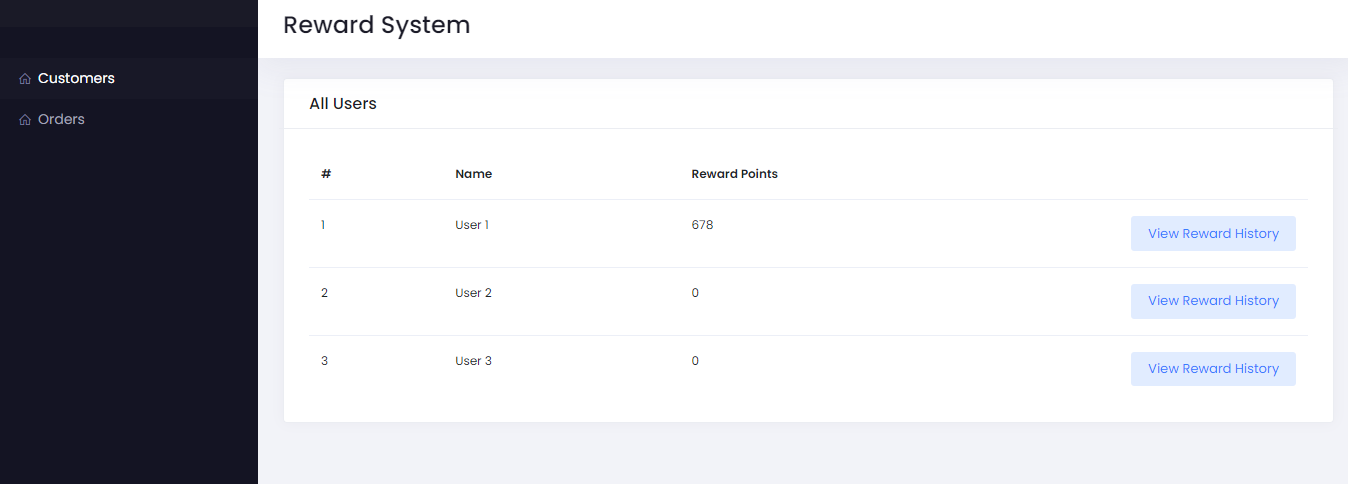
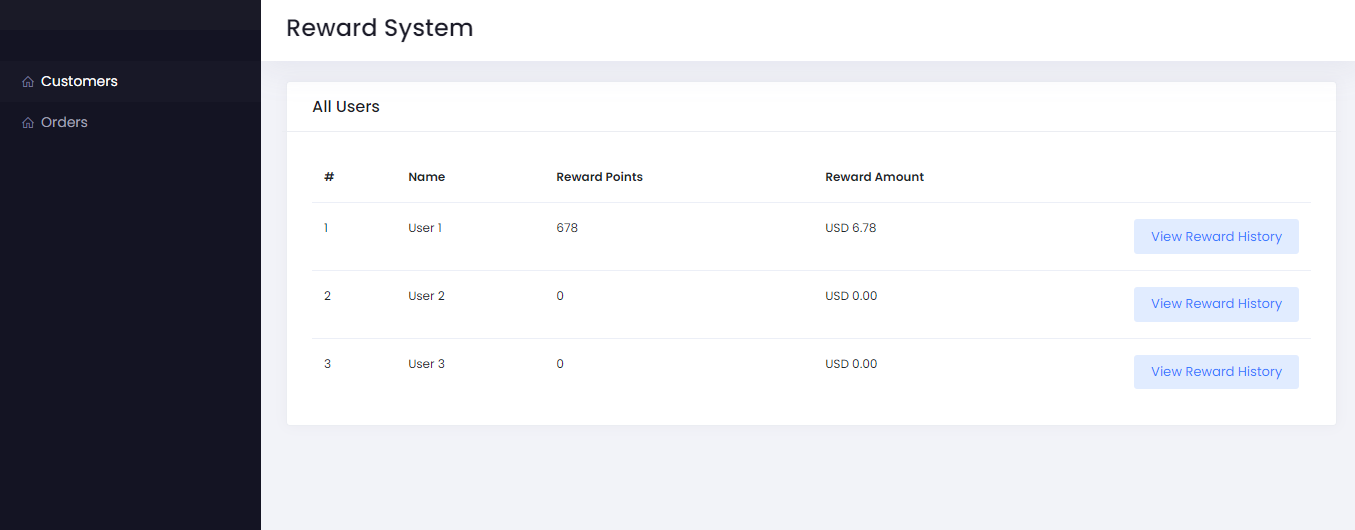
read me updated

diff --git a/app/Http/Controllers/OrderController.php b/app/Http/Controllers/OrderController.php
@@ -44,25 +44,6 @@ class OrderController extends Controller
         $order->currency = $currency->code;
         $order->currency_value = $currency->exchange_rate;
 
-        //check if customer want to use the rewards point
-        if($request->use_points){
-            //convert sales amount to USD
-            $amount_to_redeem = $order->sales_amount * $order->currency_value;
-
-            //1 point = USD 0.01
-            //1 USD = 100 points
-            $points_to_redeem = $amount_to_redeem * 100;
-
-            //check if reward points can be used
-            if($user->reward_points < $points_to_redeem){
-                flash('Enough points not available')->error();
-                return redirect()->back();
-            }
-            
-            $user->reward_points -= $points_to_redeem;
-            $user->save();
-        }
-
         $order->save();
 
         flash('Order has been added successfully')->success();
@@ -72,6 +53,7 @@ class OrderController extends Controller
 
     public function markAsComplete($order_id){
         $order = Order::findOrFail($order_id);
+        $user = User::findOrFail($order->user_id);
 
         if($order->status != "Pending")
         {
@@ -79,18 +61,16 @@ class OrderController extends Controller
             return redirect()->back();
         }
 
-        $user = User::findOrFail($order->user_id);
+        $reward_amount = $order->calculateRewardPoints();
 
         //Create new reward record
         $reward = new Reward();
         $reward->order_id = $order->id;
-        $reward->user_id = $order->user_id;
         $reward->expiry_date = Carbon::now()->addYears(1)->format('Y-m-d');
-        $reward_amount = $order->calculateRewardPoints();
-
         $reward->reward_points = $reward_amount;
         $reward->save();
 
+        //credit reward points to the user
         $user->reward_points += $reward_amount;
         $user->save();
 

diff --git a/resources/views/users/index.blade.php b/resources/views/users/index.blade.php
@@ -17,6 +17,7 @@
                         <th>#</th>
                         <th data-breakpoints="md">Name</th>
                         <th data-breakpoints="md">Reward Points</th>
+                        <th data-breakpoints="md">Reward Amount</th>
                         
                         <th class="text-right" width="20%"></th>
                     </tr>
@@ -32,6 +33,10 @@
                         </td>
                         <td>
                             {{ $user->reward_points }}
+                        </td>
+
+                        <td>
+                            USD {{ $user->reward_amount }}
                         </td>
                         
                         <td class="text-right">

diff --git a/app/Models/User.php b/app/Models/User.php
@@ -56,10 +56,16 @@ class User extends Authenticatable
     /**
      * Get all of the rewards for the User
      *
-     * @return \Illuminate\Database\Eloquent\Relations\HasMany
+     * @return \Illuminate\Database\Eloquent\Relations\HasManyThrough
      */
     public function rewards()
     {
-        return $this->hasMany(Reward::class);
+        return $this->hasManyThrough(Reward::class, Order::class);
+    }
+
+    public function getRewardAmountAttribute()
+    {   
+        //convert reward_points to reward amount in usd
+        return number_format($this->reward_points * 0.01, 2);
     }
 }

diff --git a/app/Console/Commands/CheckRewardExpiry.php b/app/Console/Commands/CheckRewardExpiry.php
@@ -50,8 +50,7 @@ class CheckRewardExpiry extends Command
                 ->where('is_expired', 0)
                 ->sum('reward_points');
             
-            //update user reward points
-            //condition check to balance out used reward points
+            //if user.reward_points <= unexpired_points, then no change in reward point is required
             if($user->reward_points > $unexpired_points){
                 //update user reward points
                 $user->reward_points = $unexpired_points;

diff --git a/app/Models/Order.php b/app/Models/Order.php
@@ -24,7 +24,7 @@ class Order extends Model
         $sales_amount = $this->sales_amount;
 
         //value to convert currency to USD 
-        $currency_value = $this->currency_value;
+        $currency_value = $this->currency_value; //->exchange rate at the time of order placement
 
         // convert sales amount to USD and rounded off the result to get reward points.
         $reward_amount = round($sales_amount * $currency_value);

diff --git a/database/migrations/2021_12_05_184652_create_rewards_table.php b/database/migrations/2021_12_05_184652_create_rewards_table.php
@@ -21,9 +21,6 @@ class CreateRewardsTable extends Migration
 
             $table->bigInteger("order_id")->unsigned();
             $table->foreign('order_id')->references('id')->on('orders')->onDelete('cascade');
-
-            $table->bigInteger('user_id')->unsigned();
-            $table->foreign('user_id')->references('id')->on('users')->onDelete('cascade');
             $table->timestamps();
         });
     }

diff --git a/database/seeders/OrderSeeder.php b/database/seeders/OrderSeeder.php
@@ -28,8 +28,7 @@ class OrderSeeder extends Seeder
             'expiry_date' => '2020-12-13',
             'is_expired' => 0,
             'reward_points' => 500,
-            'order_id' => 1,
-            'user_id' => 1,
+            'order_id' => 1
         ]);
     }
 }

diff --git a/README.md b/README.md
@@ -30,11 +30,6 @@ Run:
 php artisan serve
 ```
 
-Command to expire reward points based on their expiry date
-```bash
-php artisan reward:expire
-```
-
 ### Features
 
 - Customers will be rewarded with Points when Sales Order is in “Complete” status.
@@ -84,10 +79,10 @@ Rewards are calculated once the "Mark as Completed" button is pressed. The compl
         New reward record is entered in rewards table.
     </li>
     <li>
-        Status of order is marked as "Completed"
+       The reward amount is credited into the customer.
     </li>
     <li>
-       The reward amount is credited into the customer.
+        Status of order is marked as "Completed"
     </li>
 </ul>
 
@@ -117,6 +112,12 @@ The expiry check of the rewards points is performed by running cron job once in 
         </li>
     </ul>
 </ul>
+
+
+Artisan Command to expire reward points based on their expiry date
+```bash
+php artisan reward:expire
+```
 
 ## Screenshots
 
